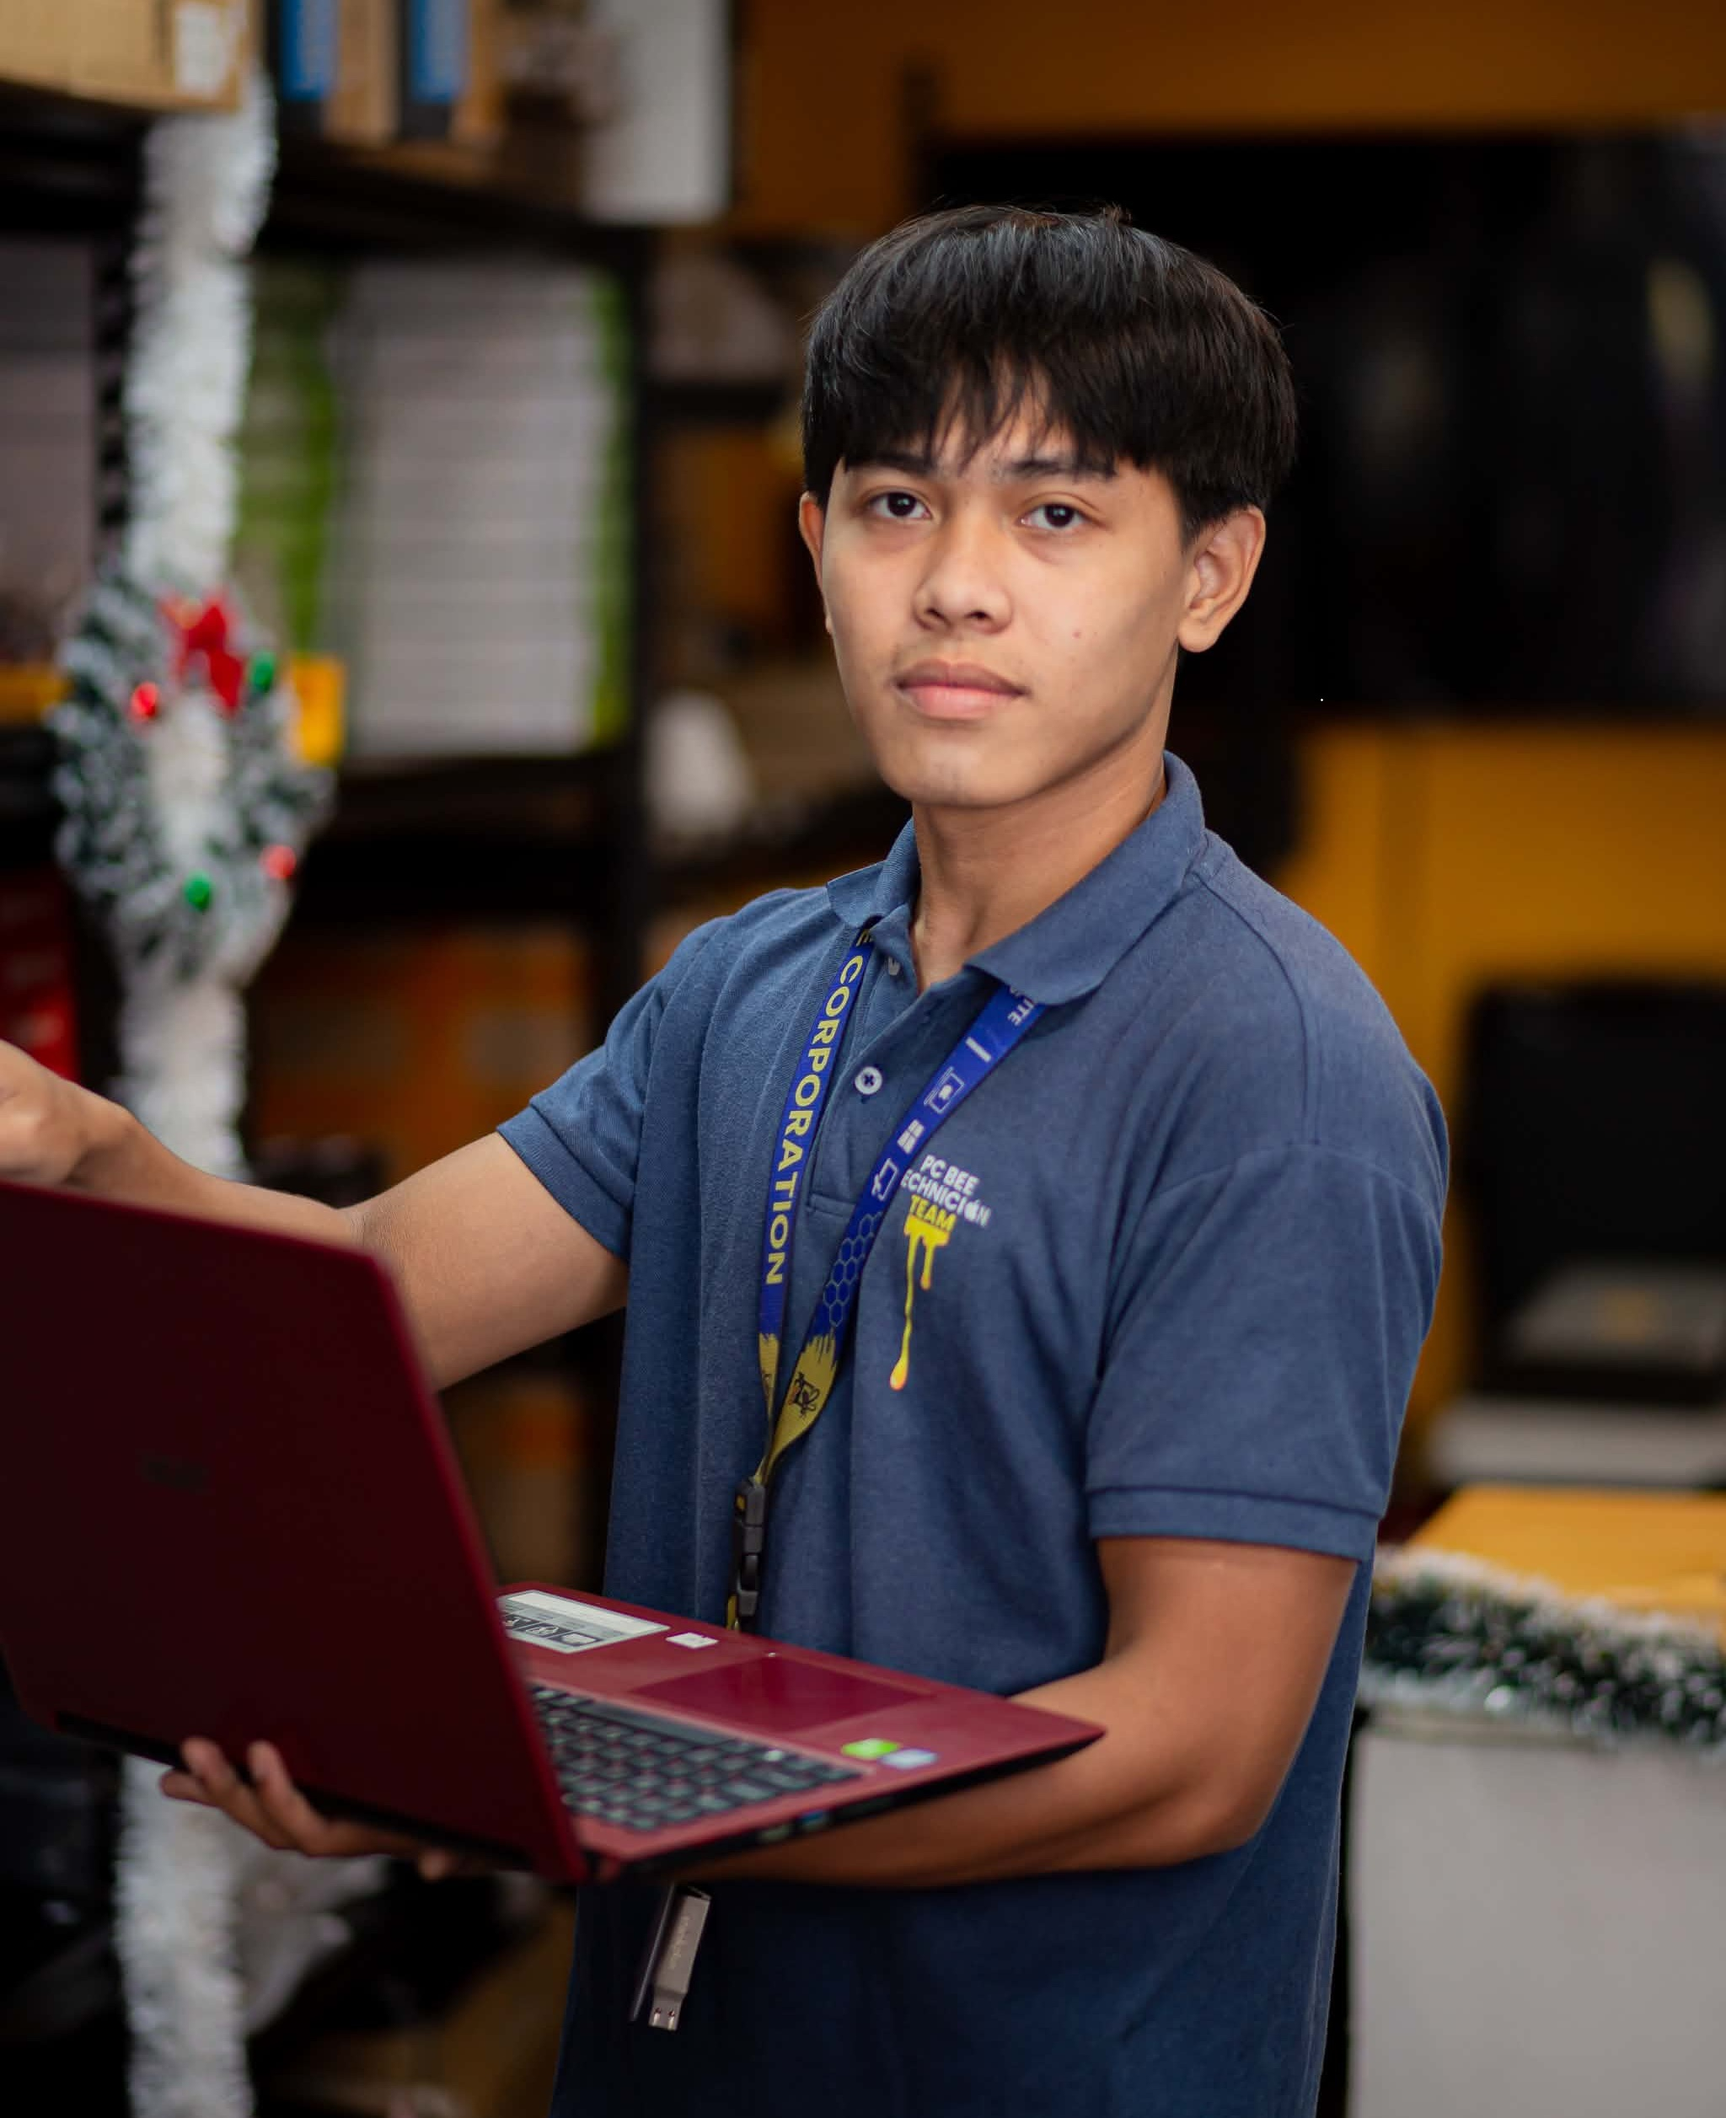
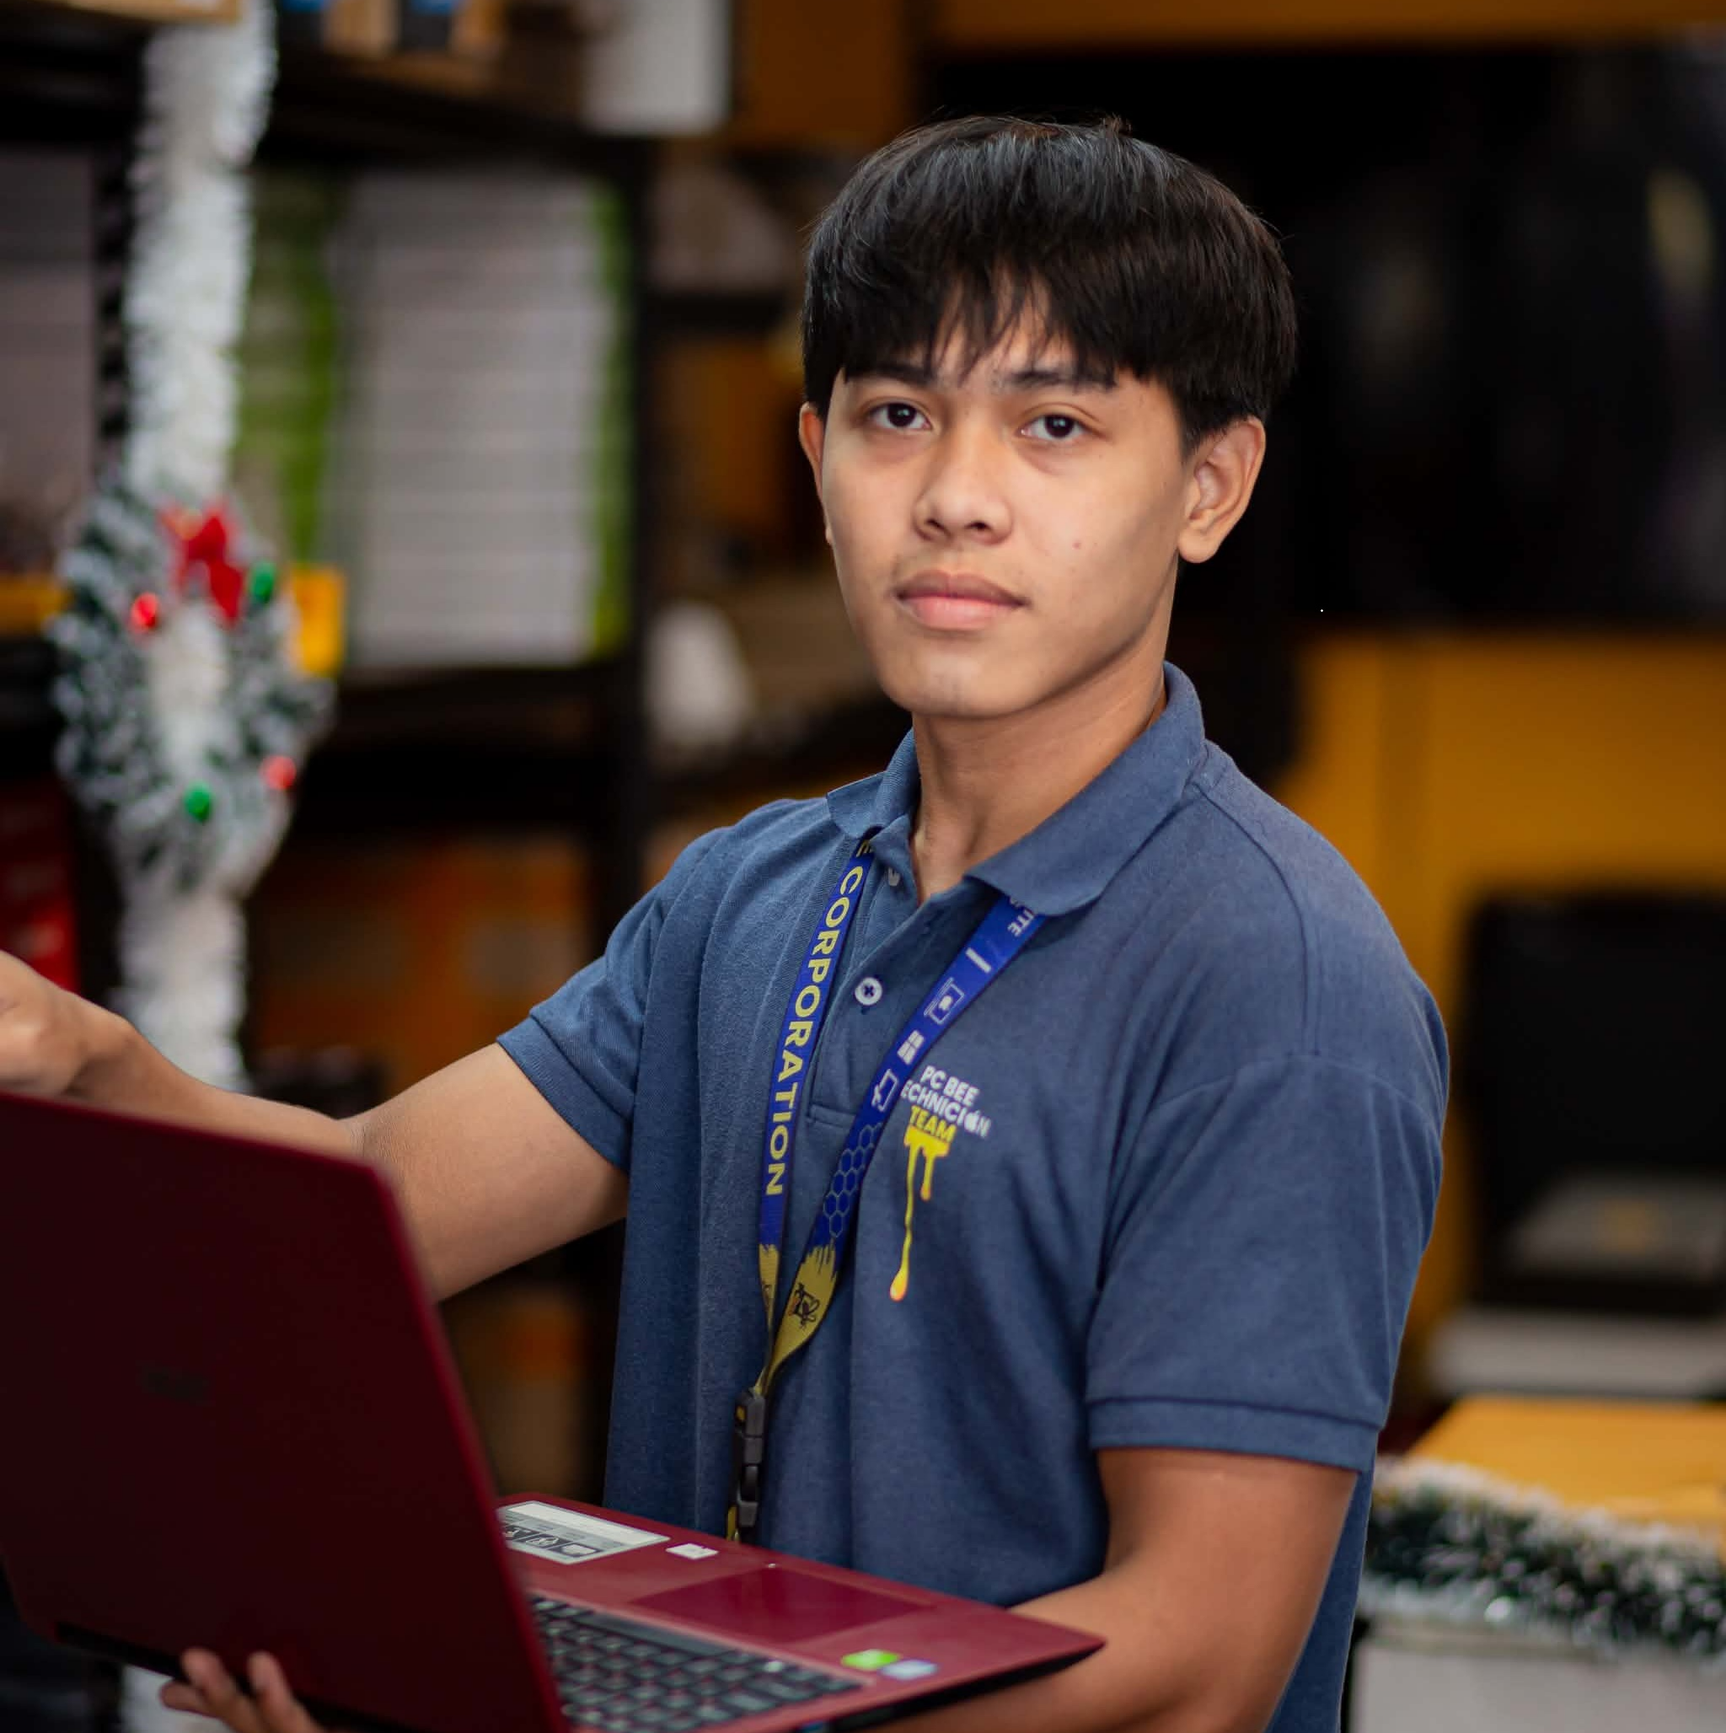
Completed V1

diff --git a/index.html b/index.html
@@ -18,7 +18,6 @@
   <link rel="icon" type="image/jpg" href="/assets/images/logs.jpg">
 </head>
 <body>
-  <p class="demo-banner" role="status">Sample content throughout — scroll down or use the nav. Replace text &amp; images in <code>index.html</code>.</p>
   <a class="skip-link" href="#main">Skip to content</a>
 
   <header class="site-header" id="header">
@@ -150,7 +149,7 @@
         <header class="section-header">
           <p class="eyebrow">Achievements</p>
           <h2 id="achievements-heading" class="section-title">Milestones that matter</h2>
-          <p class="section-desc">Sample achievement cards — swap images, dates, and copy with yours.</p>
+          <p class="section-desc">Achievements and experience aligned with my skills and expertise.</p>
         </header>
 
         <div class="achievements-grid">
@@ -159,9 +158,9 @@
               <img src="assets/images/milestone1.jpg" alt="Team celebrating a client win" loading="lazy" />
             </div>
             <div class="achievement-body">
-              <time datetime="2025-03">Mar 2025</time>
-              <h3>Top Virtual Assistant — Client Choice Award</h3>
-              <p>Recognized by a retainer client for 12 months of 99% on-time delivery and zero missed deadlines.</p>
+              <time datetime="2025-03">May 2025</time>
+              <h3>Customer Service Associate</h3>
+              <p>Handled customer support and follow-up inquiries efficiently.</p>
             </div>
           </article>
 
@@ -170,9 +169,9 @@
               <img src="assets/images/milestone3.png" alt="Video editing workspace" loading="lazy" />
             </div>
             <div class="achievement-body">
-              <time datetime="2024-11">Nov 2024</time>
-              <h3>50+ Video Projects Delivered</h3>
-              <p>Short-form reels and YouTube snippets for lifestyle and coaching brands across three niches.</p>
+              <time datetime="2024-11">Nov 2025</time>
+              <h3>Social Media Brand Ambassador</h3>
+              <p>Managed social media content planning, audience interaction, and promotional activities.</p>
             </div>
           </article>
 
@@ -181,9 +180,9 @@
               <img src="assets/images/milestone2.jpg" alt="Laptop with organized workspace" loading="lazy" />
             </div>
             <div class="achievement-body">
-              <time datetime="2024-06">Jun 2024</time>
-              <h3>Notion Certified — Workspace Builder</h3>
-              <p>Built reusable client dashboards that cut weekly reporting time by 40%.</p>
+              <time datetime="2024-06">April 2024</time>
+              <h3>Corporate Brand Partnership Collaborator</h3>
+              <p>Received collaboration and promotional partnership opportunities from major brands such as SM Supermalls.</p>
             </div>
           </article>
         </div>
@@ -308,46 +307,46 @@
         <div class="collab-grid">
           <article class="collab-card">
             <div class="collab-logo-wrap">
-              <img src="https://placehold.co/140x48/3d5a4c/ffffff?text=LUMEA" alt="Lumea Skincare logo" loading="lazy" />
+              <img src="assets/images/sm.png" alt="SM Malls logo" loading="lazy" />
             </div>
-            <h3>Lumea Skincare</h3>
-            <p>6-month retainer — inbox, content calendar, weekly reels.</p>
-            <a href="https://example.com" target="_blank" rel="noopener noreferrer" class="collab-link">Visit site →</a>
+            <h3>SM Milanos</h3>
+            <p>Footwear product promotion.</p>
+            <a href="https://shopsm.com/shopsm" target="_blank" rel="noopener noreferrer" class="collab-link">Visit site →</a>
           </article>
 
           <article class="collab-card">
             <div class="collab-logo-wrap">
-              <img src="https://placehold.co/140x48/5c5a56/ffffff?text=Coach+Jay" alt="Coach Jay logo" loading="lazy" />
+              <img src="assets/images/brand1.jpg" alt="Gotstyleph logo" loading="lazy" />
             </div>
-            <h3>Coach Jay Creates</h3>
-            <p>YouTube edits + thumbnail support for 8-episode series.</p>
-            <a href="https://youtube.com" target="_blank" rel="noopener noreferrer" class="collab-link">Channel →</a>
+            <h3>GOT STYLE PH</h3>
+            <p>Product promotion and marketing affiliation.</p>
+            <a href="https://gotstyle.ph/" target="_blank" rel="noopener noreferrer" class="collab-link">Visit site →</a>
           </article>
 
           <article class="collab-card">
             <div class="collab-logo-wrap">
-              <img src="https://placehold.co/140x48/8b7355/ffffff?text=Northline" alt="Northline Agency logo" loading="lazy" />
+              <img src="assets/images/brand2.jpg" alt="mnlaofficial logo" loading="lazy" />
             </div>
-            <h3>Northline Agency</h3>
-            <p>White-label VA for three agency clients — CRM & reporting.</p>
-            <a href="https://example.com" target="_blank" rel="noopener noreferrer" class="collab-link">Visit site →</a>
+            <h3>mn-la</h3>
+            <p>Brand promotion, marketing affiliation and product promotion.</p>
+            <a href="https://mn-la.com/" target="_blank" rel="noopener noreferrer" class="collab-link">Visit site →</a>
           </article>
 
           <article class="collab-card">
             <div class="collab-logo-wrap">
-              <img src="https://placehold.co/140x48/6b6862/ffffff?text=Studio+M" alt="Studio M logo" loading="lazy" />
+              <img src="assets/images/brand3.jpg" alt="Shigetsu logo" loading="lazy" />
             </div>
-            <h3>Studio M Wellness</h3>
-            <p>Launch week — emails, stories, webinar tech support.</p>
-            <a href="https://example.com" target="_blank" rel="noopener noreferrer" class="collab-link">Visit site →</a>
+            <h3>Shigetsu</h3>
+            <p>Brand promotion, marketing affiliation and product promotion.</p>
+            <a href="https://www.shigetsu.jp/?srsltid=AfmBOoo_GMQdo_q-CdrwJ49CSPLfImVQ8fNkjcHA1wV3dTjYNakHwA6Y" target="_blank" rel="noopener noreferrer" class="collab-link">Visit site →</a>
           </article>
         </div>
 
         <blockquote class="testimonial">
-          <p>"Alex is the calm in our chaos — proactive, detail-oriented, and always one step ahead. Our content pipeline has never been smoother."</p>
+          <p>"Rhynier is one of our most calculated worker ever, he does things his way in percise and organized manner without delay and with due considerations. He's such a blessing to this company."</p>
           <footer>
-            <cite>Sarah Chen</cite>
-            <span>Founder, Lumea Skincare</span>
+            <cite>PC BEE</cite>
+            <span>Mandaue Branch    </span>
           </footer>
         </blockquote>
       </div>
@@ -401,7 +400,7 @@
 
   <footer class="site-footer">
     <div class="container footer-inner">
-      <p>© <span id="year"></span> Alex Morgan (demo). All rights reserved.</p>
+      <p>© <span id="year"></span> Rhynier Nacua. All rights reserved.</p>
       <button type="button" class="theme-toggle" id="theme-toggle" aria-label="Toggle light mode">
         <span class="theme-icon-light" aria-hidden="true">☀</span>
         <span class="theme-icon-dark" aria-hidden="true">☾</span>
